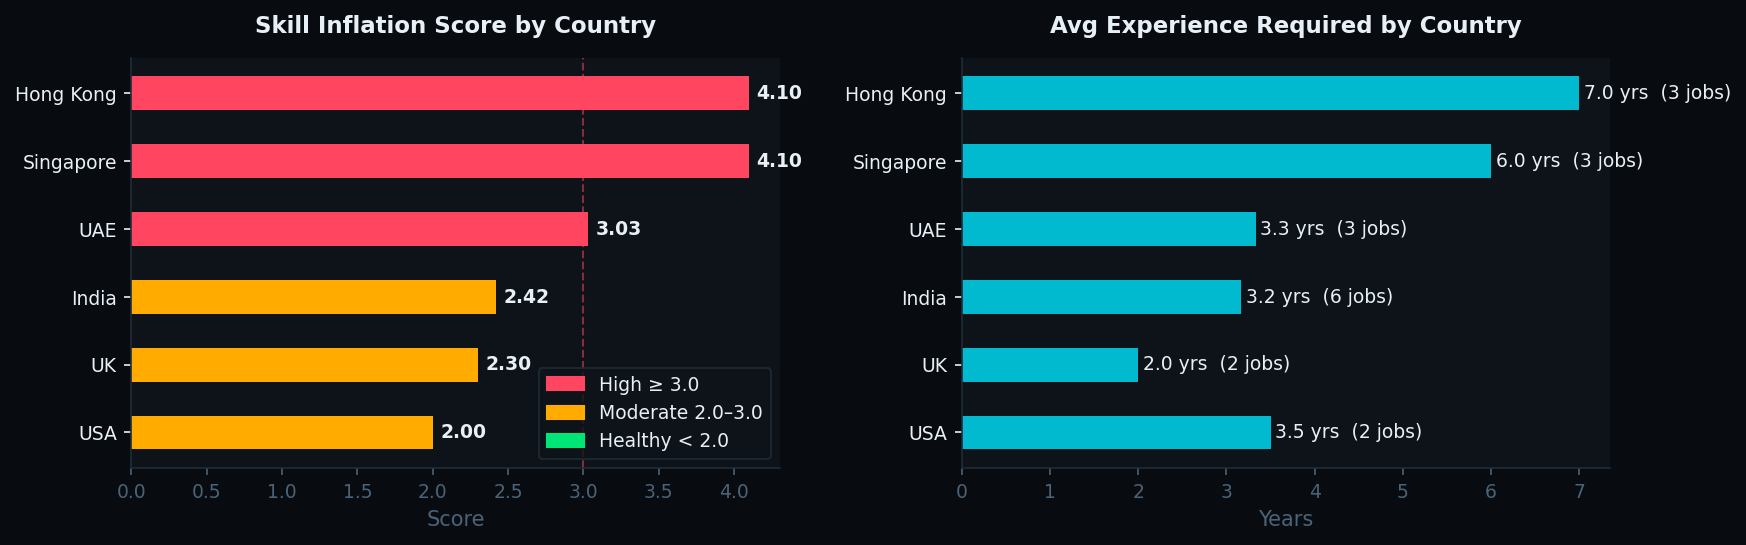
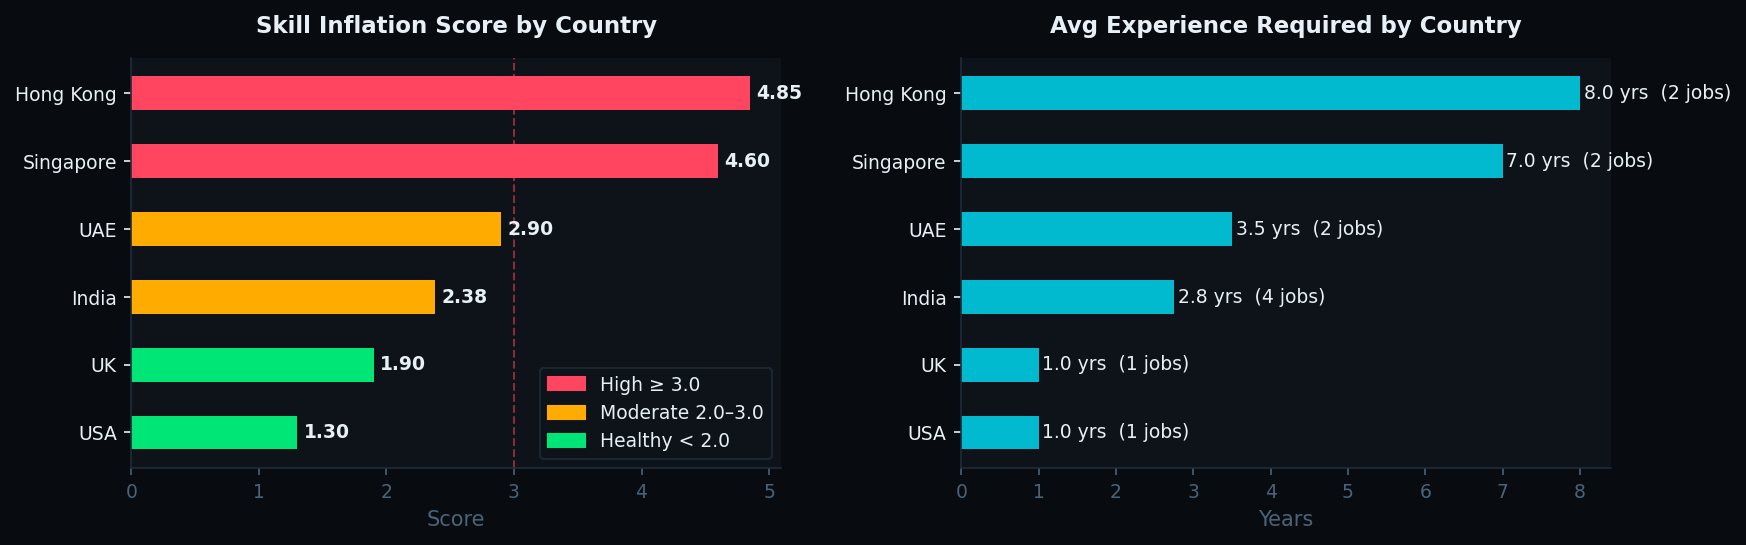
Add files via upload

diff --git a/README.md b/README.md
@@ -4,12 +4,12 @@
 
 [![CSII Automation](https://github.com/YOUR-USERNAME/Cybersecurity-Skill-Inflation-Index/actions/workflows/csii.yml/badge.svg)](https://github.com/YOUR-USERNAME/Cybersecurity-Skill-Inflation-Index/actions/workflows/csii.yml)
 ![Last Updated](https://img.shields.io/badge/Last%20Updated-2026--02-blue?style=flat)
-![Skill Score](https://img.shields.io/badge/Skill%20Score-2.99-red?style=flat)
+![Skill Score](https://img.shields.io/badge/Skill%20Score-3.12-red?style=flat)
 ![Avg Years](https://img.shields.io/badge/Avg%20Years-4.2-blue?style=flat)
-![Avg Certs](https://img.shields.io/badge/Avg%20Certs-3.0-green?style=flat)
+![Avg Certs](https://img.shields.io/badge/Avg%20Certs-3.4-green?style=flat)
 ![Avg Tools](https://img.shields.io/badge/Avg%20Tools-1.4-yellow?style=flat)
-![Jobs Analyzed](https://img.shields.io/badge/Jobs%20Analyzed-19-brightgreen?style=flat)
-![Exploitation Rate](https://img.shields.io/badge/Exploitation%20Rate-42%25-orange?style=flat)
+![Jobs Analyzed](https://img.shields.io/badge/Jobs%20Analyzed-12-brightgreen?style=flat)
+![Exploitation Rate](https://img.shields.io/badge/Exploitation%20Rate-50%25-orange?style=flat)
 ![License](https://img.shields.io/badge/License-MIT-lightgrey?style=flat)
 
 ---
@@ -120,7 +120,7 @@
 
 | Month | Avg Years | Avg Certs | Avg Tools | Skill Score | Jobs |
 |-------|-----------|-----------|-----------|-------------|------|
-| 2026-02 | 4.16 | 3.05 | 1.37 | **2.99** | 19 |
+| 2026-02 | 4.17 | 3.42 | 1.42 | **3.12** | 12 |
 ## 🔍 What Is CSII?
 
 The **Cybersecurity Skill Inflation Index** measures whether employers are raising job requirements faster than compensation — a structural market inefficiency that disadvantages job seekers and distorts career planning.

diff --git a/reports/Monthly-CSII-Report.md b/reports/Monthly-CSII-Report.md
@@ -1,20 +1,20 @@
 # CSII Monthly Report — 2026-02
 
 ## Signal
-🟡 **MODERATE INFLATION** — Monitor closely.
+🔴 **HIGH INFLATION** — Requirements significantly outpacing market value.
 
 ## Key Metrics
 | Metric | Value |
 |--------|-------|
-| Avg Years Required | 4.16 |
-| Avg Certifications | 3.05 |
-| Avg Tools | 1.37 |
-| Avg Frameworks | 2.79 |
-| **Skill Inflation Score** | **2.99** |
-| Jobs Analyzed | 19 |
-| Avg Salary (USD) | $67,147 |
-| Exploitation Rate | 42.1% |
-| Junior / Mid / Senior | 3 / 11 / 5 |
+| Avg Years Required | 4.17 |
+| Avg Certifications | 3.42 |
+| Avg Tools | 1.42 |
+| Avg Frameworks | 3.67 |
+| **Skill Inflation Score** | **3.12** |
+| Jobs Analyzed | 12 |
+| Avg Salary (USD) | $65,306 |
+| Exploitation Rate | 50.0% |
+| Junior / Mid / Senior | 3 / 5 / 4 |
 
 ## Charts
 ![Trend](skill_trend.png)
